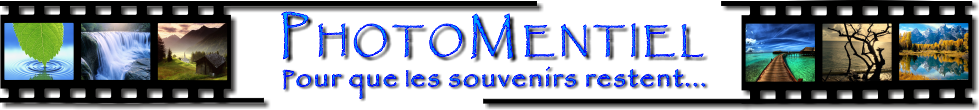
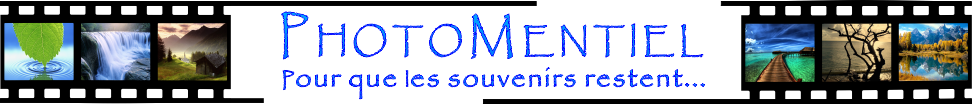
re-style index for test

diff --git a/css/main.css b/css/main.css
@@ -93,15 +93,15 @@ textarea:hover, textarea:focus {
 
 div#header_surround{
 	margin-top:2px;
-	margin-left:auto; 
+	margin-left:auto;
 	margin-right:auto;
-	width:980px;
-	height:110px;
+	width:975px;
+	height:103px;
 }
 div#header {
 	background-image:url(../design/backgrounds/banniere.png);
 	background-repeat:no-repeat;
-	width:980px;
+	width:975px;
 	height:25px;
 	padding-top:85px;
 	text-align:left;
@@ -116,11 +116,13 @@ span#accueil {
 div#menu_barre {
 	margin-left:auto; 
 	margin-right:auto;
-	background-image:url(../design/backgrounds/buttons_barre.png);
+	//background-image:url(../design/backgrounds/buttons_barre.png);
 	background-repeat:no-repeat;
-	width:980px;
+	background-color:#1A1A1A;
+	border:1px blue solid;
+	width:970px;
 	padding-top:1px;
-	height:32px;
+	height:26px;
 	text-align:right;
 	color:#0099FF;
 	font-size:11px;
@@ -176,23 +178,24 @@ a#lost_pwd, a#deconnexion {
 div#body_content {
 	margin-left:auto;
 	margin-right:auto;
-	width:980px;
+	width:975px;
 }
 div#footer {
 	margin-left:auto;
 	margin-right:auto;
-	padding-top:4px;
-	background-image:url(../design/backgrounds/bottom.png);
+	padding-top:2px;
+	//background-image:url(../design/backgrounds/bottom.png);
 	background-repeat:no-repeat;
-	width:980px;
-	height:22px;
+	height:18px;
 	color:#0099FF;
-	
+	background-color:#1A1A1A;
+	border:1px blue solid;
+	width:970px;
 }
 div#end {
 	margin-left:auto;
 	margin-right:auto;
-	width:980px;
+	width:970px;
 }
 div#end a {
 	font-size:10px;
@@ -207,7 +210,7 @@ div#end a:hover {
 div#full_content_top {
 	background-image:url(../design/backgrounds/full_content_top.png);
 	background-repeat:no-repeat;
-	width:980px;
+	width:970px;
 	height:30px;
 	text-align:left;
 	font-size:17px;
@@ -220,12 +223,12 @@ div#full_content_top {
 div#full_content_mid {
 	background-image:url(../design/backgrounds/full_content_mid.png);
 	background-repeat:repeat-y;
-	width:980px;
+	width:970px;
 }
 div#full_content_bot {
 	background-image:url(../design/backgrounds/full_content_bot.png);
 	background-repeat:no-repeat;
-	width:980px;
+	width:970px;
 	height:11px;
 }
 

diff --git a/css/index.css b/css/index.css
@@ -15,12 +15,14 @@ div#square_top, div#divsquare_top {
 }
 div#square_top {
 	text-align:left;
-	background-image:url(../design/backgrounds/square_top.png);
+	background-color:#3377DD;
+	border:1px blue solid;
+	//background-image:url(../design/backgrounds/square_top.png);
 	background-repeat:no-repeat;
-	width:484px;
-	height:29px;
-	padding-top:6px;
-	padding-left:5px;
+	width:475px;
+	height:25px;
+	padding-top:3px;
+	padding-left:4px;
 }
 div#square_top a {
 	font-size:12px;
@@ -31,9 +33,11 @@ div#square_top a {
 	letter-spacing: 0;
 }
 div#square_mid {
-	background-image:url(../design/backgrounds/square_middle.png);
+	//background-image:url(../design/backgrounds/square_middle.png);
 	background-repeat:repeat-y;
-	width:484px;
+	width:479px;
+	border-left:1px blue solid;
+	border-right:1px blue solid;
 }
 div#card, div#albums, div#events, div#know_more {
 	height:215px;
@@ -71,10 +75,13 @@ div#card a:hover {
 	color: #007700;
 }
 div#square_bot {
-	background-image:url(../design/backgrounds/square_bottom.png);
+	//background-image:url(../design/backgrounds/square_bottom.png);
 	background-repeat:no-repeat;
-	width:484px;
-	height:11px;
+	width:479px;
+	height:5px;
+	border-bottom:1px blue solid;
+	border-right:1px blue solid;
+	border-left:1px blue solid;
 }
 
 div#tl_error {

diff --git a/header.php b/header.php
@@ -16,7 +16,7 @@ include_once("classes/modele/Utilisateur.class.php");
 include("userconnection.php");
 ?>
 <div id="header_surround"><a href="index.php" title="<?php echo Utils::getFullDomainName(); ?> - Retour accueil"><div id="header"><span id="accueil">Accueil</span></div></a></div>
-<div class="separator2"></div>
+<div class="separator5"></div>
 <div id="menu_barre">
 	<div style="text-align:left;float:left;padding-left:10px;width:740px;">
 		<!--<div id="home"><a href="index.php" title="Retour accueil"><img src="design/misc/home.png"></img></a></div>-->
@@ -55,6 +55,6 @@ include("userconnection.php");
 		?>
 	</div>
 </div>
-<div class="separator2"></div>
+<div class="separator5"></div>
 <div id="body_content">
 

diff --git a/footer.php b/footer.php
@@ -11,7 +11,7 @@
  */
 ?>
 	</div>
-  	<div class="separator2"></div>
+  	<div class="separator5"></div>
   	<div id="footer">
   		&#169; 2009 <?php echo AUTHOR; ?> - Tous droits réservés - Vie privée et Internet
   	</div>
